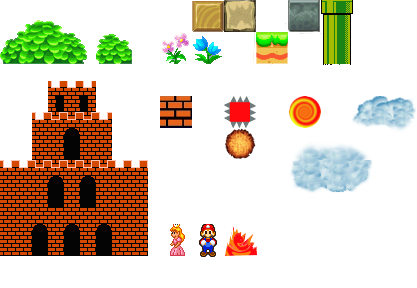
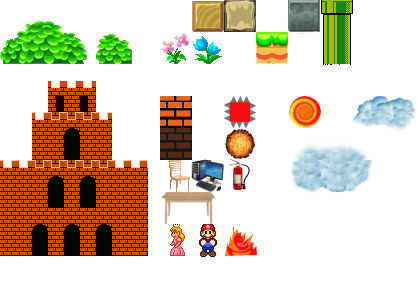
Картинки тайлов

Changed region(s): [[0.3741, 0.4375, 0.5923, 0.7812]]

diff --git a/window/Level.py b/window/Level.py
@@ -106,7 +106,7 @@ class Level:
         music.play(-1, 0.0)
 
 
-class LevelWithLayers(Level):
+class Level2(Level):
     def load_game(self):
         for layer in range(3):
             for y in range(self.map.height):
@@ -122,7 +122,7 @@ class LevelWithLayers(Level):
 
         if mo_id == 595:
             self.mario = Mario(coords, MARIO_PATH)
-        elif mo_id == 596:
+        elif mo_id == 596 or mo_id == 478:
             self.princess = MarioObject(coords, PRINCESS_PATH)
         elif 198 < mo_id <= 269 or mo_id == 479:
             self.background1.append(BaseMarioObject(coords, image))
@@ -138,5 +138,85 @@ class LevelWithLayers(Level):
             self.enemies.append(FlyDeath(coords, FLY_DEATH_PATH))
         elif mo_id == 592:
             self.bonus.append(MarioObject(coords, MONEY_PATH))
-        elif mo_id in [45, 10, 51, 52, 180, 189]:
+        elif mo_id in [45, 75, 76, 77, 10, 51, 52, 180, 189]:
+            self.blocks.append(BaseMarioObject(coords, image))
+
+class Level3(Level2):
+    def add_mario_object(self, mo_id, x, y, image):
+        coords = (x * self.tile_size, y * self.tile_size)
+
+
+        if mo_id == 474:
+            self.mario = Mario(coords, MARIO_PATH)
+        elif mo_id == 478:
+            self.princess = MarioObject(coords, PRINCESS_PATH)
+        elif 1 <= mo_id <= 71 or mo_id == 281:
+            self.background1.append(BaseMarioObject(coords, image))
+        elif mo_id in [561, 537, 80, 481, 482, 499, 493, 494, 495, 506, 507, 508, 509, 510,\
+                       519, 520, 521, 522, 523, 532, 533, 534, 535, 536, 545, 546, 547, \
+                       548, 549, 558, 559, 560, 561, 562, 571, 572, 573, 574, 575]:
+            self.background2.append(BaseMarioObject(coords, image))
+        elif mo_id == 475:
+            self.enemies.append(MoveFire(coords, FIRE_PATH))
+        elif mo_id == 479:
+            self.blocks.append(QBlock(coords, QBLOCKS_PATH))
+        elif mo_id == 476:
+            self.enemies.append(FlyDeath(coords, FLY_DEATH_PATH))
+        elif mo_id == 477:
+            self.bonus.append(MarioObject(coords, MONEY_PATH))
+        elif mo_id in [524, 464, 455, 477, 551, 550, 563, 564, 530, 531, 554, 555, 556, 552, 597]:
+            self.blocks.append(BaseMarioObject(coords, image))
+
+
+class Level4(Level3):
+    def add_mario_object(self, mo_id, x, y, image):
+        coords = (x * self.tile_size, y * self.tile_size)
+
+
+        if mo_id == 595 or mo_id == 474:
+            self.mario = Mario(coords, MARIO_PATH)
+        elif mo_id == 596 or mo_id == 478:
+            self.princess = MarioObject(coords, PRINCESS_PATH)
+        elif 198 < mo_id <= 269 or mo_id == 479:
+            self.background1.append(BaseMarioObject(coords, image))
+        elif mo_id in [27, 28, 29, 30, 31, 155, 40, 41, 42, 43, 44, 53, 54, 55, 56, 57, 66, \
+                       67, 68, 69, 70, 79, 80, 81, 82, 83, 14, 15, 16, 17, 18, 92, 93, 94, 95,\
+                       96, 20, 19]:
+            self.background2.append(BaseMarioObject(coords, image))
+        elif mo_id == 593:
+            self.enemies.append(MoveFire(coords, FIRE_PATH))
+        elif mo_id == 591:
+            self.blocks.append(QBlock(coords, QBLOCKS_PATH))
+        elif mo_id == 594:
+            self.enemies.append(FlyDeath(coords, FLY_DEATH_PATH))
+        elif mo_id == 592:
+            self.bonus.append(MarioObject(coords, MONEY_PATH))
+        elif mo_id in [45, 75, 76, 77, 10, 51, 52, 180, 189]:
+            self.blocks.append(BaseMarioObject(coords, image))
+
+
+class Level5(Level4):
+    def add_mario_object(self, mo_id, x, y, image):
+        coords = (x * self.tile_size, y * self.tile_size)
+
+
+        if mo_id == 595 or mo_id == 474:
+            self.mario = Mario(coords, MARIO_PATH)
+        elif mo_id == 596 or mo_id == 478:
+            self.princess = MarioObject(coords, PRINCESS_PATH)
+        elif 198 < mo_id <= 269 or mo_id == 479:
+            self.background1.append(BaseMarioObject(coords, image))
+        elif mo_id in [27, 28, 29, 30, 31, 155, 40, 41, 42, 43, 44, 53, 54, 55, 56, 57, 66, \
+                       67, 68, 69, 70, 79, 80, 81, 82, 83, 14, 15, 16, 17, 18, 92, 93, 94, 95,\
+                       96, 20, 19]:
+            self.background2.append(BaseMarioObject(coords, image))
+        elif mo_id == 593:
+            self.enemies.append(MoveFire(coords, FIRE_PATH))
+        elif mo_id == 591:
+            self.blocks.append(QBlock(coords, QBLOCKS_PATH))
+        elif mo_id == 594:
+            self.enemies.append(FlyDeath(coords, FLY_DEATH_PATH))
+        elif mo_id == 592:
+            self.bonus.append(MarioObject(coords, MONEY_PATH))
+        elif mo_id in [45, 75, 76, 77, 10, 51, 52, 180, 189]:
             self.blocks.append(BaseMarioObject(coords, image))

diff --git a/window/CurrentWindow.py b/window/CurrentWindow.py
@@ -1,7 +1,7 @@
-from config import LEVEL1_PATH, LEVEL2_PATH, STATE_END, STATE_WIN
+from config import LEVEL1_PATH, LEVEL2_PATH, LEVEL3_PATH, LEVEL4_PATH, LEVEL5_PATH, STATE_END, STATE_WIN
 from dao.db_mario_handler import get_level_number_by_win
 from window.Button import Button
-from window.Level import Level, LevelWithLayers
+from window.Level import Level, Level2, Level3, Level4, Level5
 
 
 class CurrentWindow:
@@ -21,6 +21,7 @@ class CurrentWindow:
             Button((100, 200, 220, 50), "Уровень 2"),
             Button((100, 300, 220, 50), "Уровень 3"),
             Button((100, 400, 220, 50), "Уровень 4"),
+            Button((100, 500, 220, 50), "Уровень 5"),
         ]
         win_levels = get_level_number_by_win(is_win=True)
         for number, time, count_bumps in win_levels:
@@ -60,8 +61,14 @@ class CurrentWindow:
                 if widg.click(position, button):
                     if number == 0:
                         self.current_level = Level(LEVEL1_PATH, number + 1)
-                    else:
-                        self.current_level = LevelWithLayers(LEVEL2_PATH, number + 1)
+                    elif number == 1:
+                        self.current_level = Level2(LEVEL2_PATH, number + 1)
+                    elif number == 2:
+                        self.current_level = Level3(LEVEL3_PATH, number + 1)
+                    elif number == 3:
+                        self.current_level = Level4(LEVEL4_PATH, number + 1)
+                    elif number == 4:
+                        self.current_level = Level5(LEVEL5_PATH, number + 1)
 
     def quit(self):
         print("quit")

diff --git a/config/__init__.py b/config/__init__.py
@@ -11,6 +11,9 @@ STATE_WIN = 3
 
 LEVEL1_PATH = f"{RESOURCES_DIR}/maps/level1/MarioLevel1.tmx"
 LEVEL2_PATH = f"{RESOURCES_DIR}/maps/MarioLevel2.tmx"
+LEVEL3_PATH = f"{RESOURCES_DIR}/maps/MarioLevel3.tmx"
+LEVEL4_PATH = f"{RESOURCES_DIR}/maps/MarioLevel4.tmx"
+LEVEL5_PATH = f"{RESOURCES_DIR}/maps/MarioLevel5.tmx"
 
 MARIO_PATH = f"{RESOURCES_DIR}/heros/0.png"
 PRINCESS_PATH = f"{RESOURCES_DIR}/heros/princess.png"
@@ -22,6 +25,7 @@ FIRE_PATH = f"{RESOURCES_DIR}/enemies/fire.png"
 FLY_DEATH_PATH = f"{RESOURCES_DIR}/enemies/fly_death.png"
 
 BACKGROUND_MUSIC_PATH = f"{RESOURCES_DIR}/music/background_music.mp3"
+
 BUMBS_SOUND_PATH = f"{RESOURCES_DIR}/music/bumbs_sound.mp3"
 DIE_SOUND_PATH = f"{RESOURCES_DIR}/music/die_sound.mp3"
 START_SOUND_PATH = f"{RESOURCES_DIR}/music/start_sound.mp3"

diff --git a/config/Camera.py b/config/Camera.py
@@ -10,3 +10,4 @@ class Camera:
     def update(self, target: Mario):
         self.state.x = target.rect.x - WIDTH // 2
         self.state.y = target.rect.y - HEIGHT // 2
+
